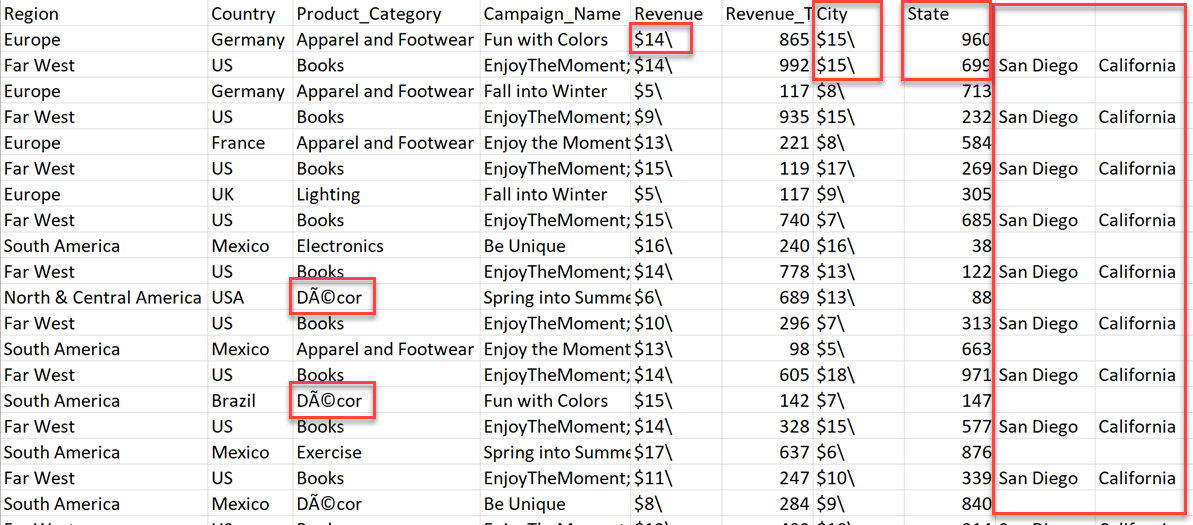
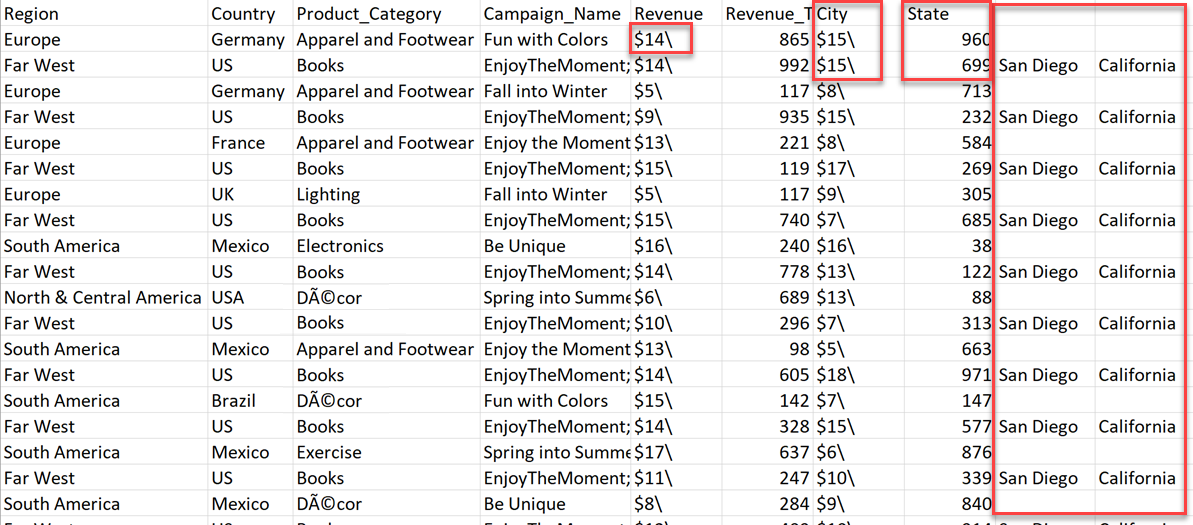
Closes #23

Changed region(s): [[0.2171, 0.4876, 0.3412, 0.64], [0.2171, 0.701, 0.3412, 0.8229]]

diff --git a/day-01/lab02-data-integration-part-2.md b/day-01/lab02-data-integration-part-2.md
@@ -202,7 +202,7 @@ Your organization was provided a poorly formatted CSV file containing marketing 
 
 ![Screenshot of the CSV file.](media/poorly-formatted-csv.png "Poorly formatted CSV")
 
-Issues include invalid characters in some product categories, invalid characters in the revenue currency data, and misaligned columns.
+Issues include invalid characters in the revenue currency data, and misaligned columns.
 
 1. Navigate to the **Data** hub.
 
@@ -353,7 +353,6 @@ In this task, you'll create datasets for the SQL tables that will serve as data 
         | --- | --- | --- |
         | Revenue | `toDecimal(replace(concat(toString(RevenuePart1), toString(Revenue)), '\\', ''), 10, 2, '$###,###.##')` | Concatenate the `RevenuePart1` and `Revenue` fields, replace the invalid `\` character, then convert and format the data to a decimal type. |
         | RevenueTarget | `toDecimal(replace(concat(toString(RevenueTargetPart1), toString(RevenueTarget)), '\\', ''), 10, 2, '$###,###.##')` | Concatenate the `RevenueTargetPart1` and `RevenueTarget` fields, replace the invalid `\` character, then convert and format the data to a decimal type. |
-        | ProductCategory | `replace(toString(ProductCategory), 'Ã©', 'e')` | Replace the invalid characters in the `ProductCategory` field with the letter e. |
 
     ![The derived column's settings are displayed as described.](media/data-flow-campaign-analysis-derived-column-settings.png "Derived column's settings")
 
